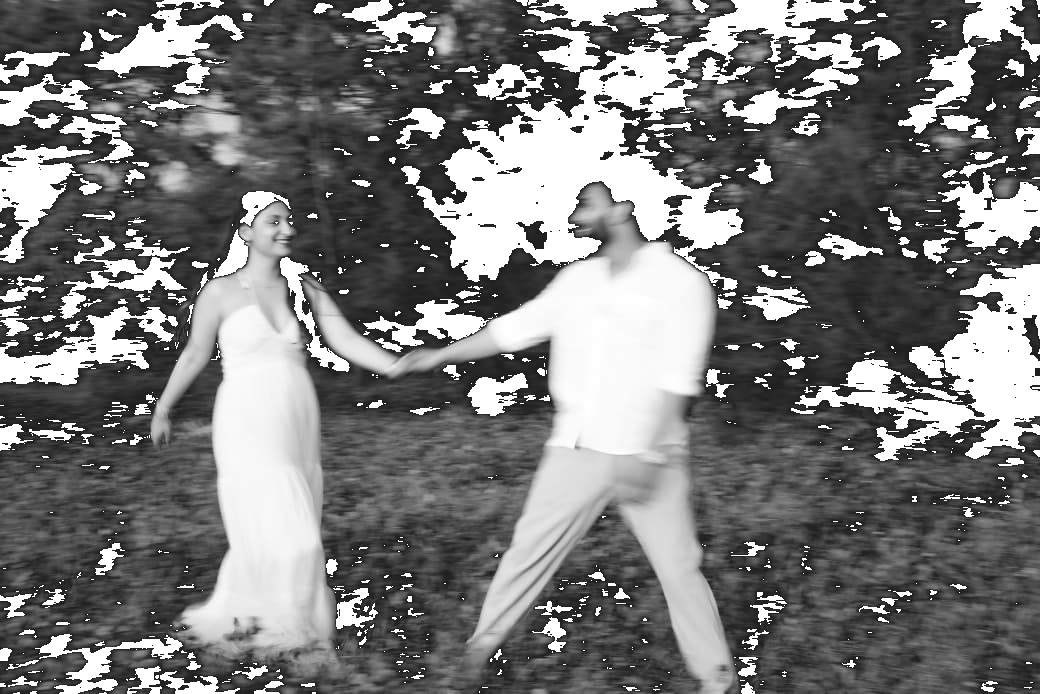
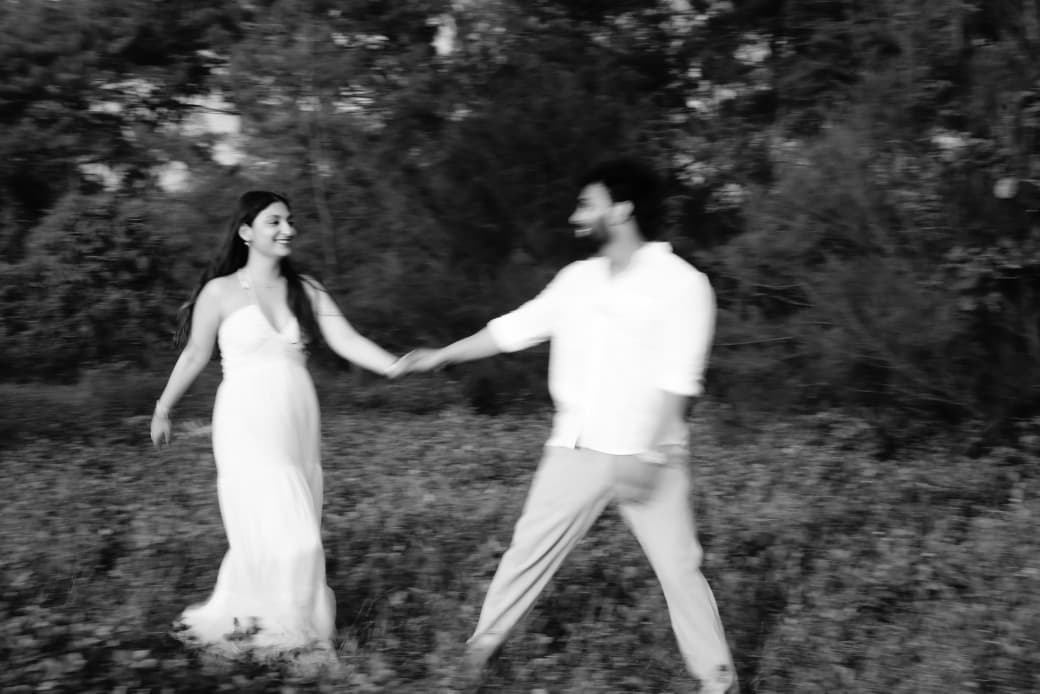
fix: resolve couple photo display issue by restoring original clean image and removing jagged cutout artifacts

diff --git a/index.html b/index.html
@@ -205,7 +205,7 @@
         <div class="couple-single-photo-wrap">
           <div class="couple-photo-frame">
             <div class="frame-shimmer-overlay"></div>
-            <img class="couple-single-img" src="assets/2.png" alt="Bhavya &amp; Sanyam" />
+            <img class="couple-single-img" src="assets/2.jpeg" alt="Bhavya &amp; Sanyam" />
             <div class="photo-inner-border"></div>
           </div>
           

diff --git a/link2.html b/link2.html
@@ -204,7 +204,7 @@
         <div class="couple-single-photo-wrap">
           <div class="couple-photo-frame">
             <div class="frame-shimmer-overlay"></div>
-            <img class="couple-single-img" src="assets/2.png" alt="Bhavya &amp; Sanyam" />
+            <img class="couple-single-img" src="assets/2.jpeg" alt="Bhavya &amp; Sanyam" />
             <div class="photo-inner-border"></div>
           </div>
           
